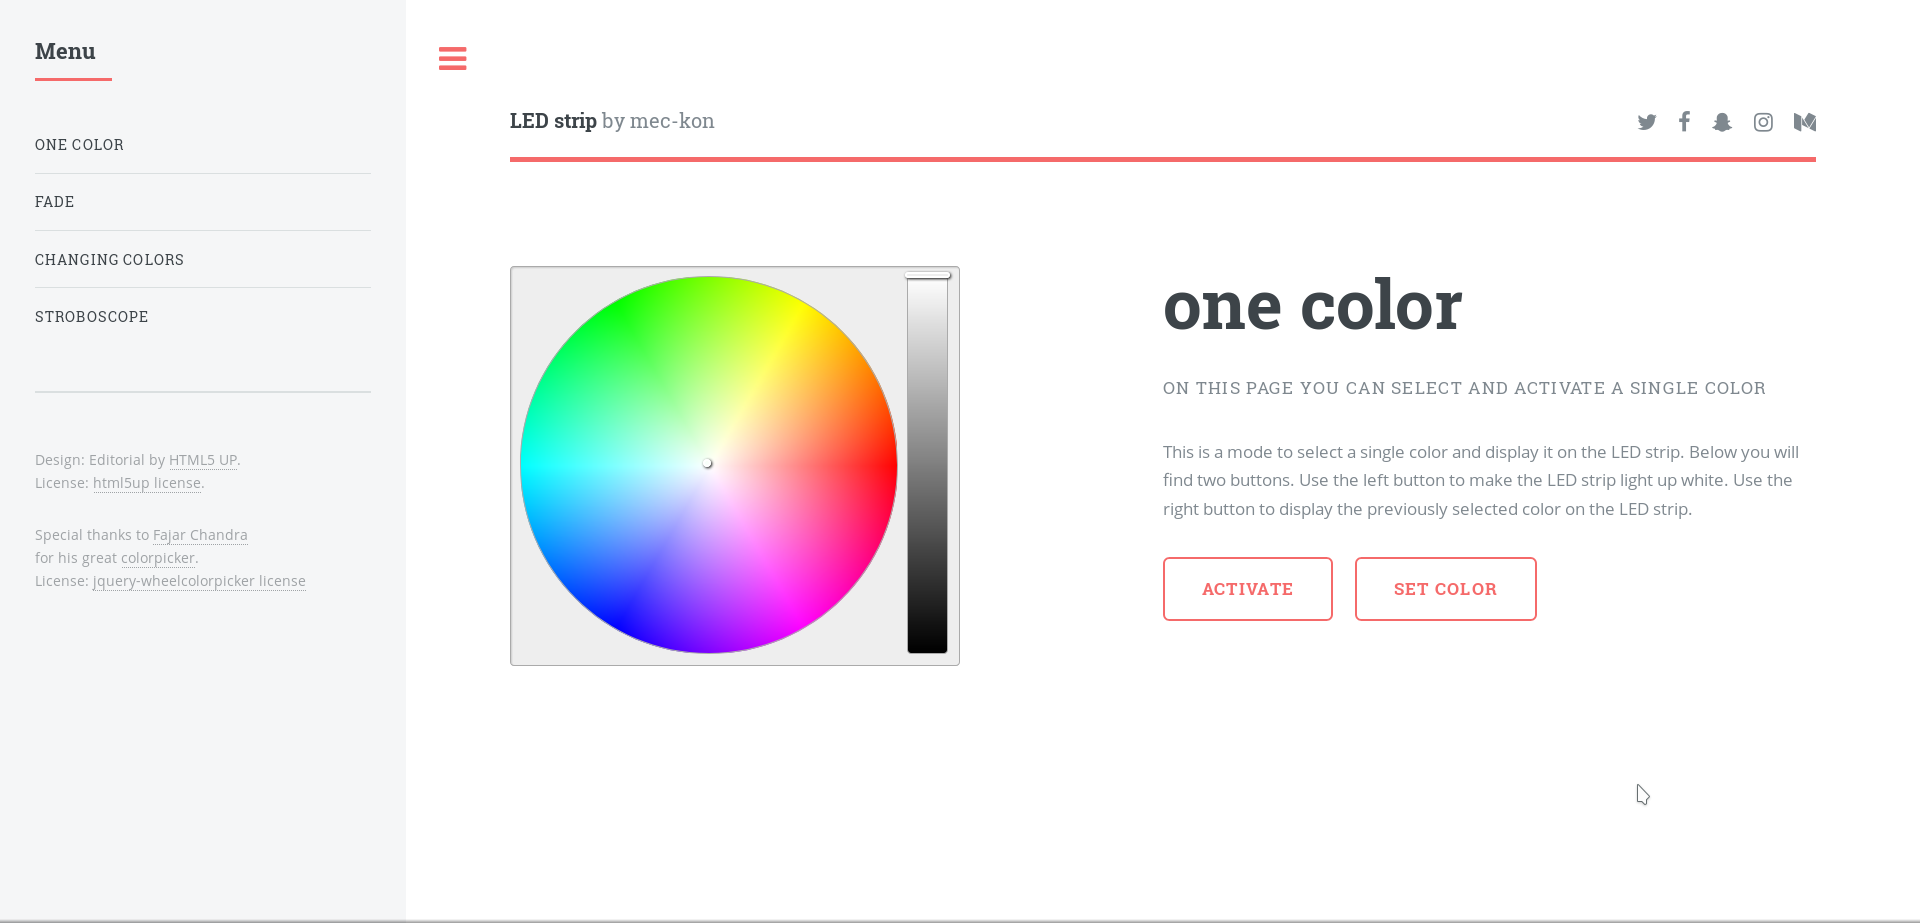
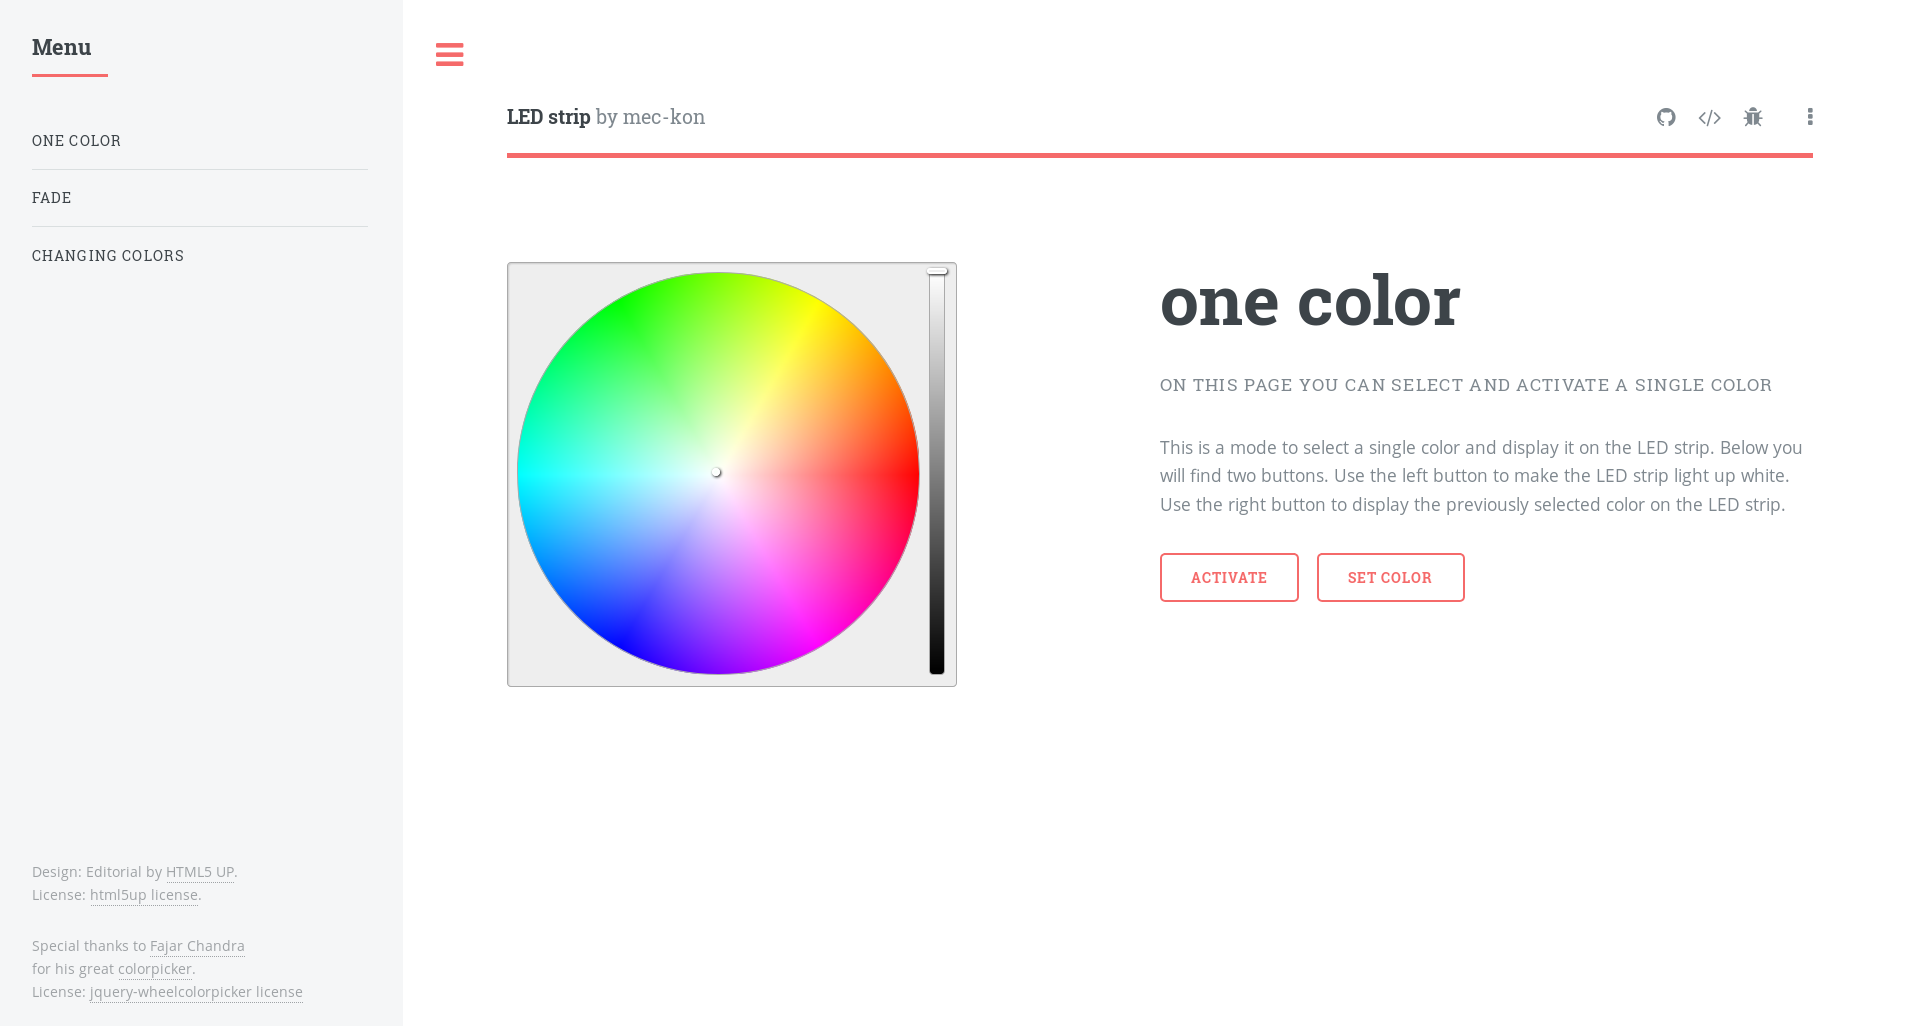
fixed a bug in turnON() and turnOFF() method, prepared readme file for release of version 1.0

diff --git a/src/javascript/main.js b/src/javascript/main.js
@@ -78,7 +78,6 @@ function loadSiteContent(url) {
 }
 
 function turnOFF() {
-    document.getElementById("onOffOneColor").innerHTML = "activate";
     stripLights = false;
 
     let data = {};
@@ -99,7 +98,6 @@ function turnOFF() {
 }
 
 function turnON() {
-    document.getElementById("onOffOneColor").innerHTML = "deactivate";
     stripLights = true;
 
     let data = {};

diff --git a/src/javascript/one_color.js b/src/javascript/one_color.js
@@ -8,9 +8,11 @@ else {
 
 function turnOnOff() {
     if (stripLights) {
+        document.getElementById("onOffOneColor").innerHTML = "activate";
         turnOFF();
     }
     else {
+        document.getElementById("onOffOneColor").innerHTML = "deactivate";
         turnON();
     }
 }

diff --git a/README.md b/README.md
@@ -1,7 +1,7 @@
 led-strip-website
 ====================================
 
-This is a website that allows you to control an LED strip.
+This is a website that allows you to control a Led strip connected to a Raspberry Pi or ESP32 microcontroller.
 
 ![](demo/led_strip_website.png)
 
@@ -9,12 +9,24 @@ This is a website that allows you to control an LED strip.
 Modes
 --------
 
-Four different modes are currently available.
+Three different modes are currently available.
 * The one color mode allows you to select a simple color.
 * The fade mode can be used to select several colors between which the color 
 of the LED strip moves.
 * The changing colors mode switches between all selected colors.
-* There is also the strobuscope mode.
+
+Download and install
+--------
+
+The easiest way to run the website is to use my self-programmed [server](https://github.com/mec-kon/led-strip-server), 
+as it not only hosts the website, but also controls the Led Band.
+This project is already included in my [server](https://github.com/mec-kon/led-strip-server) project as submodule.
+
+[Check out my led-strip-server on github](https://github.com/mec-kon/led-strip-server)
+
+
+Credits
+--------
 
 Special thanks to Fajar Chandra
 for his great [colorpicker](https://github.com/fujaru/jquery-wheelcolorpicker) and to
@@ -25,3 +37,5 @@ Licences:
 
 * [colorpicker](https://github.com/fujaru/jquery-wheelcolorpicker/blob/master/LICENSE)
 * [html5up](https://html5up.net/license)
+* [gnu license]([https://github.com/mec-kon/led-strip-website/blob/experimental/GNU-LICENSE)
+* [mit license](https://github.com/mec-kon/led-strip-website/blob/experimental/MIT-LICENSE)
